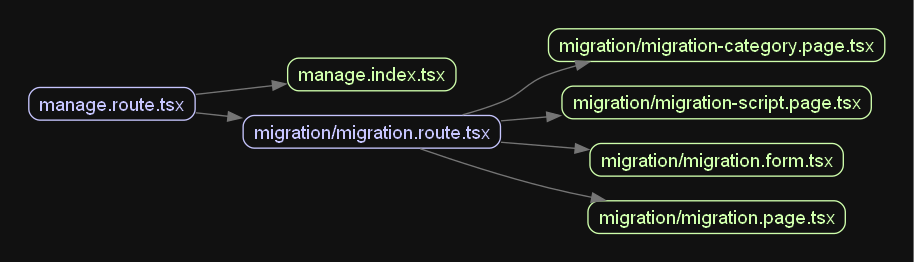
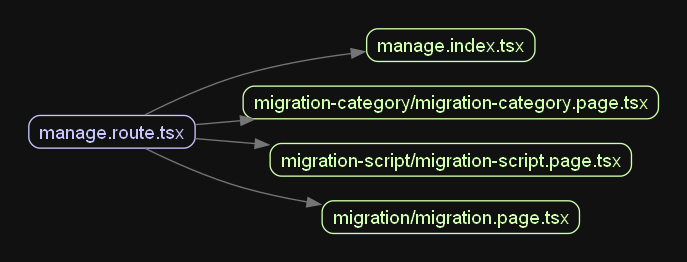
clean up

diff --git a/apps/nest/libs/common/src/enums/permission-view.enum.ts b/apps/nest/libs/common/src/enums/permission-view.enum.ts
@@ -1,0 +1,22 @@
+export enum MigrationPermission {
+  ASSIGN_SCRIPTS_FOR_MIGRATION = 'manage:migration:assignScriptsToMigration',
+  GET_ALL_MIGRATIONS = 'manage:migration:getAllMigrations',
+  GET_MIGRATION_BY_ID = 'manage:migration:getMigrationById',
+  GET_SCRIPTS_FOR_MIGRATION = 'manage:migration:getScriptsForMigration',
+  GET_ROLLBACKS_FOR_MIGRATION = 'manage:migration:getRollbacksForMigration',
+  CREATE_NEW_MIGRATION = 'manage:migration:createNewMigration',
+  MIGRATION_RUN_BY_ID = 'manage:migration:migrationRunById',
+  MIGRATION_ROLLBACK_BY_ID = 'manage:migration:migrationRollbackById',
+}
+
+export enum MigrationCategoryPermission {
+  GET_ALL_MIGRATION_CATEGORIES = 'manage:migration_category:getAllMigrationCategories',
+  GET_MIGRATION_CATEGORY_BY_ID = 'manage:migration_category:getMigrationCategoryById',
+  CREATE_NEW_MIGRATION_CATEGORY = 'manage:migration_category:createNewMigrationCategory',
+}
+
+export enum MigrationScriptPermission {
+  GET_ALL_MIGRATION_SCRIPTS = 'manage:migration_script:getAllMigrationScripts',
+  GET_MIGRATION_SCRIPT_BY_ID = 'manage:migration_script:getMigrationScriptById',
+  CREATE_NEW_MIGRATION_SCRIPT = 'manage:migration_script:createNewMigrationScript',
+}

diff --git a/apps/react/src/pages/manage/manage.route.tsx b/apps/react/src/pages/manage/manage.route.tsx
@@ -14,15 +14,15 @@ function ManageRoute() {
   const routes = useRoutes([
     {
       path: '/migrations',
-      element: <MigrationPage module="manage" view="migration" object="migartion:migration_category:migration_script" />
+      element: <MigrationPage module="manage" view="migration" object="migartion" />
     },
     {
       path: '/migration-categories',
-      element: <MigrationCategory module="manage" view="migration" object="migration_category" />
+      element: <MigrationCategory module="manage" view="migration_category" object="migration_category" />
     },
     {
       path: '/migration-scripts',
-      element: <MigrationScript module="manage" view="migration" object="migration_script" />
+      element: <MigrationScript module="manage" view="migration_script" object="migration_script" />
     },
     {
       path: '/',

diff --git a/apps/react/src/app.router.tsx b/apps/react/src/app.router.tsx
@@ -3,7 +3,7 @@ import { createBrowserRouter } from "react-router-dom";
 
 import AuthGuard from "./components/guard/auth.guard";
 import AuthRoute from "./pages/auth/auth.route";
-import HomeRoute from "./pages/home/home.route";
+import DashboardRoute from "./pages/dashboard/dashboard.route";
 import AccountRoute from "./pages/account/account.route";
 import ManageRoute from "./pages/manage/manage.route";
 
@@ -35,7 +35,7 @@ const routes = [
     children: [
       {
         path: '/*',
-        element: <HomeRoute />
+        element: <DashboardRoute />
       }
     ]
   },

diff --git a/apps/react/src/pages/dashboard/dashboard.route.tsx b/apps/react/src/pages/dashboard/dashboard.route.tsx
@@ -1,0 +1,24 @@
+import { lazy } from "react";
+import { useRoutes } from "react-router-dom";
+
+import { Template } from "@/components";
+
+const Index = Template(lazy(() => import('./dashboard.index')));
+
+function DashboardRoute() {
+
+  const routes = useRoutes([
+    {
+      path: '/',
+      element: <Index module="dashboard" view="index" />
+    },
+    {
+      path: '*',
+      element: <div>not found home</div>
+    }
+  ]);
+
+  return routes;
+}
+
+export default DashboardRoute;

diff --git a/apps/react/src/pages/dashboard/welcome/welcome.page.tsx b/apps/react/src/pages/dashboard/welcome/welcome.page.tsx
@@ -1,4 +1,4 @@
-import { Sortable } from "../../../components";
+import { Sortable } from "@components";
 
 // Example API response
 const data = [
@@ -76,10 +76,10 @@ const data = [
   },
 ];
 
-function Dashboard() {
+function Welcome() {
   return <div>
     <Sortable data={data} />
   </div>
 }
 
-export default Dashboard;
+export default Welcome;

diff --git a/apps/nest/libs/common/src/enums/index.ts b/apps/nest/libs/common/src/enums/index.ts
@@ -1,5 +1,4 @@
 export * from './instance-name.enum';
 export * from './auth-type.enum';
 export * from './role-type.enum';
-export * from './migration-permission.enum';
-export * from './migration-category-permission.enum';
+export * from './permission-view.enum';
